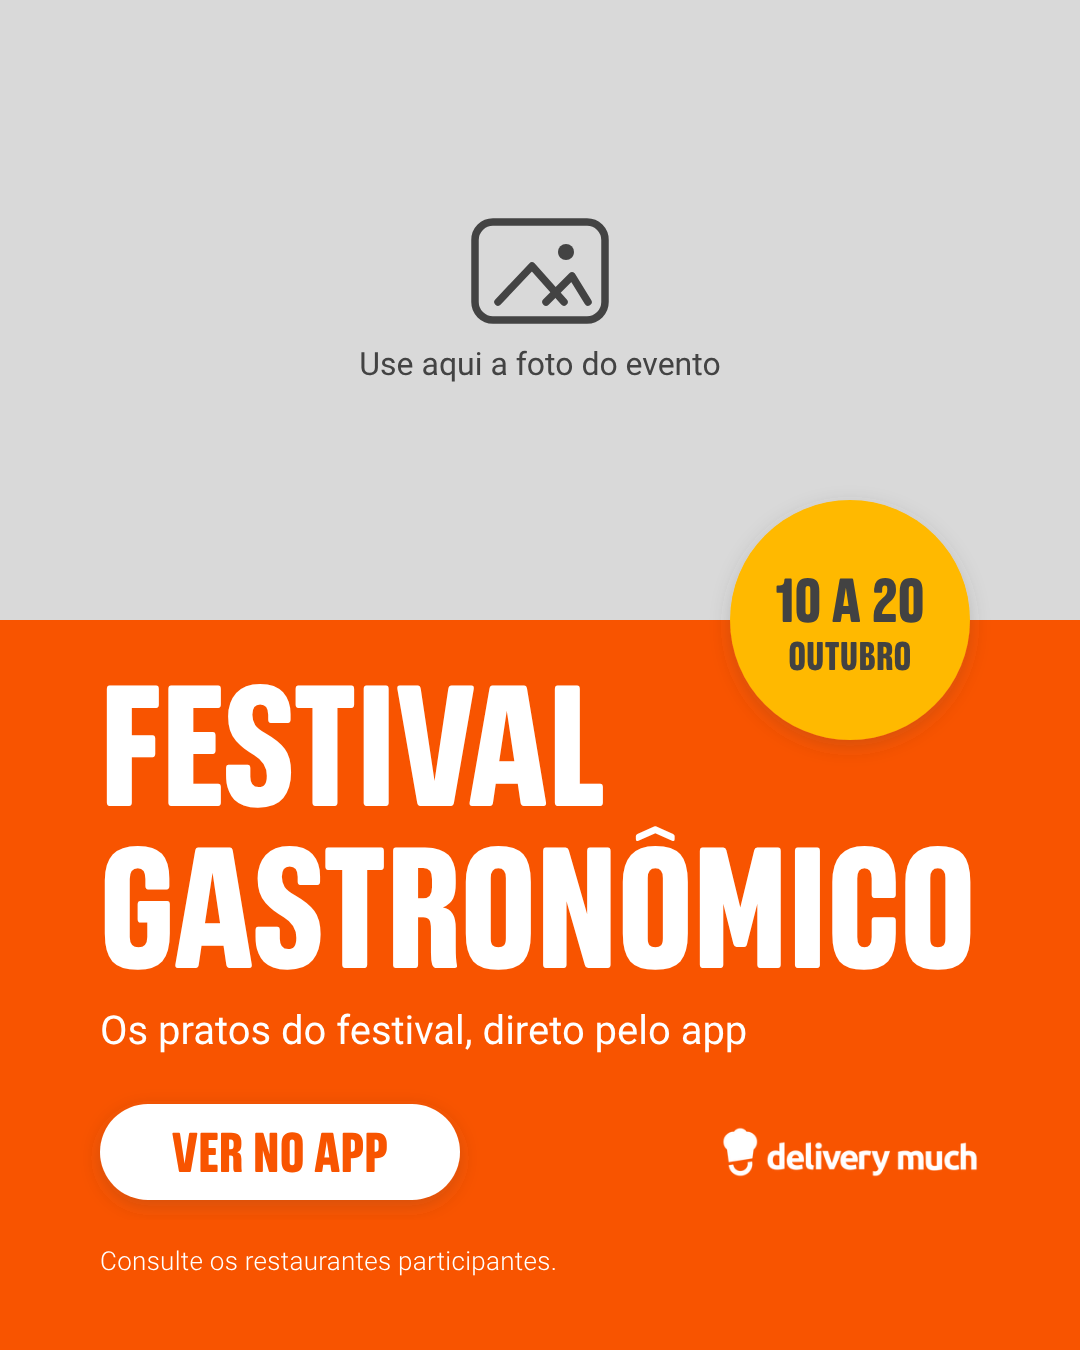
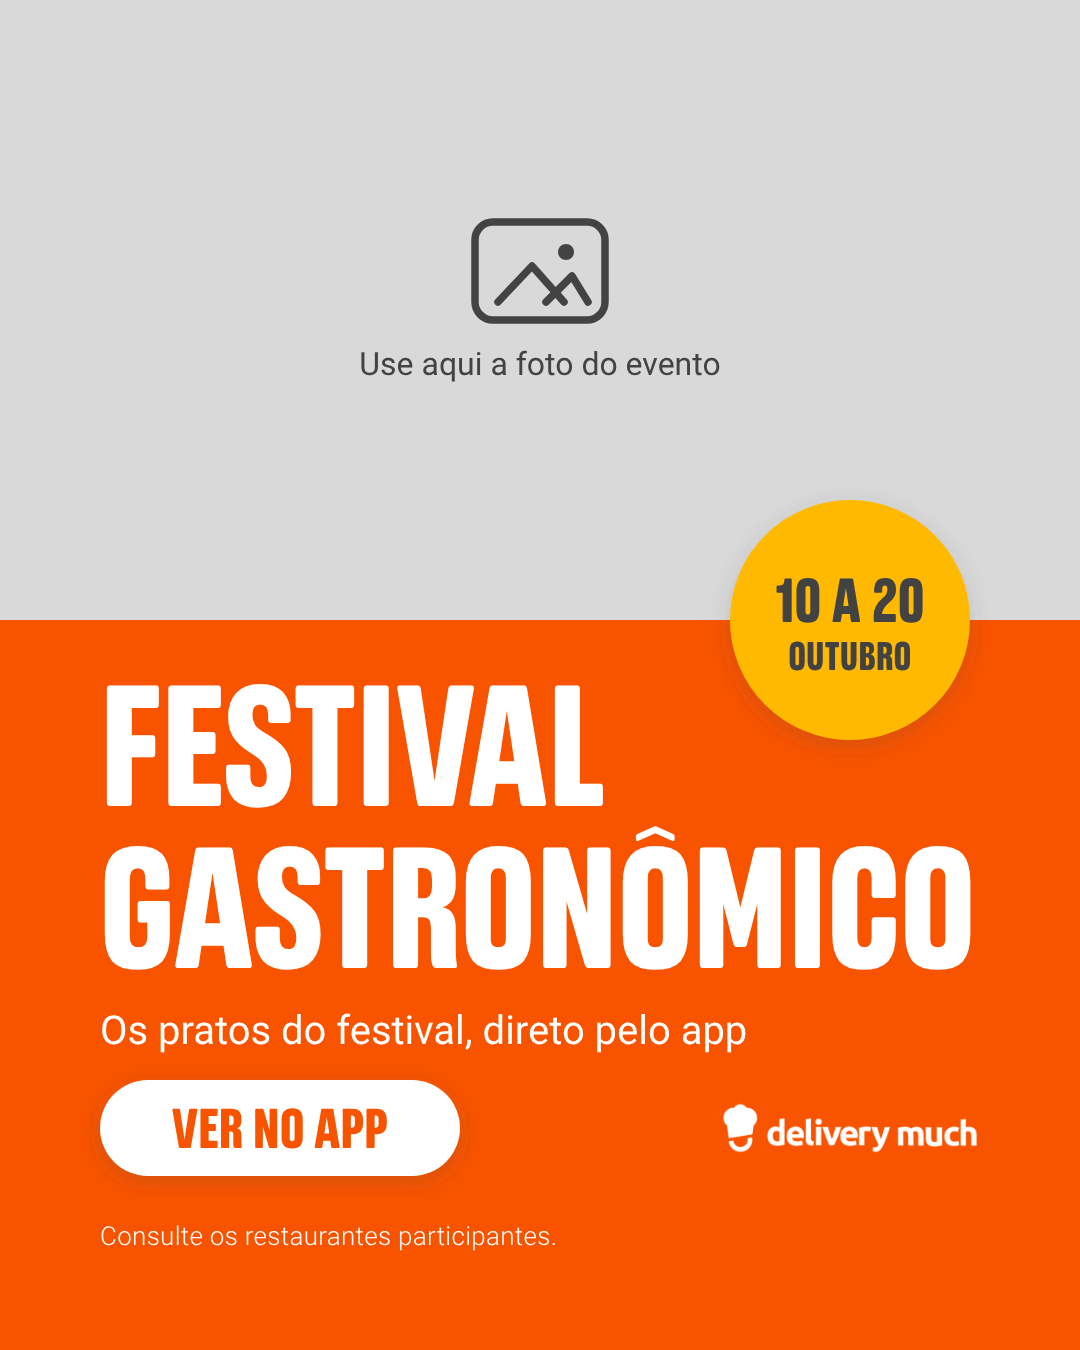
fix(skills): luma-creative aplica a 3a revisao comparativa nas artes 1.3
A 3a rodada aprovou 01, 03 e 04 e devolveu 02, 08 e 10 com ajustes
concretos, todos conferidos no print antes de corrigir:
- Ticket oficial (cards-preco/ticket-cupom.svg) passado para a paleta
  (#FF9000, #F62900, sombra do preset, codigo sem italico). O cupom usa a
  silhueta ondulada dele em vez de um ticket redesenhado.
- Lockup de valor do cupom em uma familia so (OFF em Roboto Black).
- O mesmo par de arcos saia carimbado nas 4 stories e encostava no CTA:
  o pattern fica so no cupom, como na referencia; 04, 08 e 10 viram clean.
- 08: CTA em contorno para nao disputar com o preco; selo dentro da
  margem de 980. 04: idem no selo. 03: rodape 25px acima.
- 10: selo menor (124px) e respiro interno de 36px nos cards.

Claude-Session: https://claude.ai/code/session_01U2vrZ3HoMhvurJB7Z52sZT

Changed region(s): [[0.0917, 0.7778, 0.5194, 0.9644], [0.6722, 0.8089, 0.9167, 0.8711]]

diff --git a/.agents/skills/luma-creative/SKILL.md b/.agents/skills/luma-creative/SKILL.md
@@ -115,7 +115,7 @@ Hero sempre em Realce maiúsculo deixa as peças iguais. As referências da marc
 | :--- | :--- | :--- | :--- |
 | **A. Frase mista** | Mesma linha, mesmo tamanho (64–80px): trecho de conversa em **Roboto Light Itálica (300i)** + palavra-chave em **Roboto Black (900)**. Minúsculas. | Chamada de conversa acima do valor: cupom, convite, benefício. | *pega este* **cupom** / *pra você* **economizar!** (`refino_02`) |
 | **B. Minúscula + vazado** | Palavra 1 em **Roboto Black minúscula** (200–260px, `letter-spacing` −1 a −3); palavra 2 em **Realce maiúsculo vazado**: `fill="none" stroke="#FFFFFF" stroke-width="5–8"`, ≥ 140px (alvo 300–380), na largura útil. | Benefício de 2 palavras que é o ponto focal: frete, novidade. | **entrega** / GRÁTIS vazado (`refino_04`) |
-| **C. Lockup de valor** | Número gigante em Realce (300–380px) + `R$` ou `%` a ~36% do número alinhado ao topo + coluna à direita: `OFF` (Realce) sobre o complemento em **Roboto Black** maiúsculo (44–56px, 2 linhas). | Cupom/desconto em que o valor é o ponto focal. | R$ **15** OFF / NO SEU PEDIDO (`refino_02`) |
+| **C. Lockup de valor** | Número gigante em Realce (300–380px) + `R$` ou `%` a ~36% do número alinhado ao topo + coluna à direita em **uma família só**: `OFF` em **Roboto Black** (~150px) sobre o complemento em Roboto Black maiúsculo (56px, 2 linhas), base da coluna na linha de base do número. | Cupom/desconto em que o valor é o ponto focal. | R$ **15** OFF / NO SEU PEDIDO (`refino_02`) |
 | **D. Rótulo de produto** | Nome do produto em **Realce maiúsculo #434343** (40–48px) dentro do card branco, acima do preço riscado. | Cards de lista e card de preço com nome. | BURGER CLÁSSICO (`refino_10`) |
 
 * A receita C e o rótulo D convivem com A ou B (são lockups de informação, não de expressão). A + B na mesma peça, não.
@@ -206,8 +206,9 @@ node scripts/pattern-ancorado.js --canvas 1080x1350 \
 * **Saiu "SEM PATTERN"** (menos de 2 sorrisos): faça **arte clean**. Não force: não amplie a zona por cima do texto nem reduza as caixas de texto.
 * Âncora opaco cobre sorrisos; `--anchor` evita contar os que ficariam escondidos.
 * **Em massa, não farelo:** `--scale` feed **`2.4`–`3.0`**, story **`2.6`–`3.2`** (padrão do script: `2.6`). Nas referências cada arco tem 450–500px; na escala antiga (`1.4`–`1.8`) eles saíam com ~170px e viravam lascas espalhadas (ver `referencias/antirreferencias/`). O lint avisa abaixo de `2.2`.
-* **Onde a massa fica bem** (escolha a zona assim): (1) **faixa inferior do story** (`y` 1640–2300: a zona proibida de conteúdo vira moldura, como em `referencia-cupom-feed.png`) — `refino_02`, `refino_04`, `refino_08`; (2) **canto** livre de texto; (3) saindo de trás do âncora pelas laterais. **Nunca no vão entre dois blocos** (título ↔ foto): um toco de arco ali parece sobra de máscara.
+* **Onde a massa fica bem** (escolha a zona assim): (1) **faixa inferior do story** (`y` 1640–2300: a zona proibida de conteúdo vira moldura, como em `referencia-cupom-feed.png`) — `refino_02`; (2) **canto** livre de texto; (3) saindo de trás do âncora pelas laterais. **Nunca no vão entre dois blocos** (título ↔ foto): um toco de arco ali parece sobra de máscara.
 * **Um arco solto num canto também é farelo:** se o script devolve sorrisos que aparecem só como lasca na borda, ou a zona livre é uma faixa < 300px, faça **arte clean** (foi o caso de `refino_01` e `refino_03`).
+* **Não carimbe:** a mesma zona dá o mesmo par de arcos em toda story. Use o pattern onde a referência usa (cupom, campanha) e deixe as outras clean; quatro stories com o mesmo arco parecem template (revisão de 10/2026).
 * Nunca desenhar, recortar nem editar formas do pattern; só o script escolhe quais aparecem.
 
 **Cor e opacidade** (inversão da §3 item 9):
@@ -303,7 +304,7 @@ A skill organiza seus recursos nas seguintes pastas:
 ```
 
 **Ativos previstos (ainda não estão no repo — NÃO invente nem desenhe equivalentes; use só depois de subirem):** mockup de celular com o app, moto/entregador, chapéu de chef (símbolo), ícones de app e setas, raio, sticker "mais vendidos" com foto, mais selos de campanha, **logo DM vetorial** (o PNG atual tem 298px) e fotos reais de franqueado. Enquanto faltarem: peça sem eles; se o briefing exige o ativo, **avise o usuário**.
-⚠ `cards-preco/ticket-cupom.svg` usa cores fora da paleta (`#FF7A00`, `#FF4D00`, sombra `#802000`): **não copie**. O ticket certo (aba `#F62900`, borda `#FF9000`, sombra do preset) está em `assets/templates/refino/fontes/refino_02_cupom_story.svg`.
+O ticket oficial (`cards-preco/ticket-cupom.svg`, silhueta ondulada da referência) foi passado para a paleta em 10/2026: borda `#FF9000`, aba `#F62900`, sombra do preset, código sem itálico. Escale o `<g>` inteiro (ex.: `scale(1.2941)` → 880px); uso pronto em `refino/fontes/refino_02_cupom_story.svg`.
 
 Utilitários de suporte na raiz do repositório:
 * `scripts/pattern-ancorado.js`: posiciona o pattern oficial escolhendo **sorrisos inteiros fora do texto** (§3.1, passo 3). Sem saída = arte clean.
@@ -365,7 +366,7 @@ Antes de escrever uma única linha de código, a IA **DEVE abrir e inspecionar v
     * Conteúdo útil concentrado na faixa central (`y = 260` até `y = 1660`), mantendo o mesmo respiro calculado entre blocos.
 
 * **Repertório de topologias aprovadas** (modelos prontos em `assets/templates/refino/`; ponto de partida para variar, não para copiar; **todos com foto em retângulo**).
-  * **Padrão 1.3 — copie a topologia E o acabamento** (fonte legível em `refino/fontes/`, revisados lado a lado com as referências): oferta com card de preço preso à foto e selo na quina (`refino_01`, feed); **cupom** com frase mista, lockup de valor e ticket (`refino_02`, story); **evento** com foto sangrando no topo e selo de data (`refino_03`, feed); **entrega grátis** com minúscula + vazado (`refino_04`, story); hero de 2 tamanhos + card preso + arcos em massa na base (`refino_08`, story); **lista de ofertas** com rótulo de produto e CTA (`refino_10`, story).
+  * **Padrão 1.3 — copie a topologia E o acabamento** (fonte legível em `refino/fontes/`, revisados lado a lado com as referências): oferta com card de preço preso à foto e selo na quina (`refino_01`, feed); **cupom** com frase mista, lockup de valor, ticket oficial e arcos na base (`refino_02`, story); **evento** com foto sangrando no topo e selo de data (`refino_03`, feed); **entrega grátis** com minúscula + vazado (`refino_04`, story); hero de 2 tamanhos + card preso + CTA em contorno (`refino_08`, story); **lista de ofertas** com rótulo de produto e CTA (`refino_10`, story).
   * **Pré-1.3 — copie só a topologia**, o acabamento é antigo (preço com centavos grandes, logo pequeno, pattern em escala de farelo): foto sangrando à direita + preço-herói (`refino_09`), etiqueta de preço inclinada (`refino_11`), foto larga + pílulas + preço em linha (`refino_12`), split diagonal em dois tons (`refino_13`), foto cheia no topo (`refino_05`), parceiro novo com logo da loja (`refino_06`), foto lateral sangrando (`refino_07`).
   * Escolha a topologia pelo **objetivo** (Fase 1) e **varie as proporções do retângulo** (largo, alto, quadrado, faixa) em vez de repetir a última.
 
@@ -467,7 +468,8 @@ Antes de finalizar a arte:
 | Selo "25% OFF" com DE 28,00 → POR 22,90 (é 18%) | Conferir a conta de todo desconto |
 | Logo DM com `width=230` e 17% de margem transparente (marca real ~190px) | PNG recortado; `width` 240–300 |
 | Todo hero em Realce maiúsculo, peças iguais | Uma receita da §2.4 por peça (frase mista, minúscula + vazado, lockup de valor) |
-| Ticket de `cards-preco/ticket-cupom.svg` (cores fora da paleta) | Ticket do `refino_02` (aba `#F62900`, borda `#FF9000`) |
+| Ticket redesenhado à mão (canhoto reto, um entalhe só) | Ticket oficial de `cards-preco/` (ondulado, já na paleta), escalado |
+| Mesmo par de arcos carimbado em todas as stories | Pattern só onde a referência usa; o resto clean (§3.1) |
 | CTA branco do mesmo peso do card de preço, disputando o olhar | CTA em contorno branco (`fill="none" stroke="#FFFFFF"`) quando o preço é o ponto focal |
 | Julgar a arte só com o cinza do placeholder | Print com `--foto` (Fase 5) |
 
